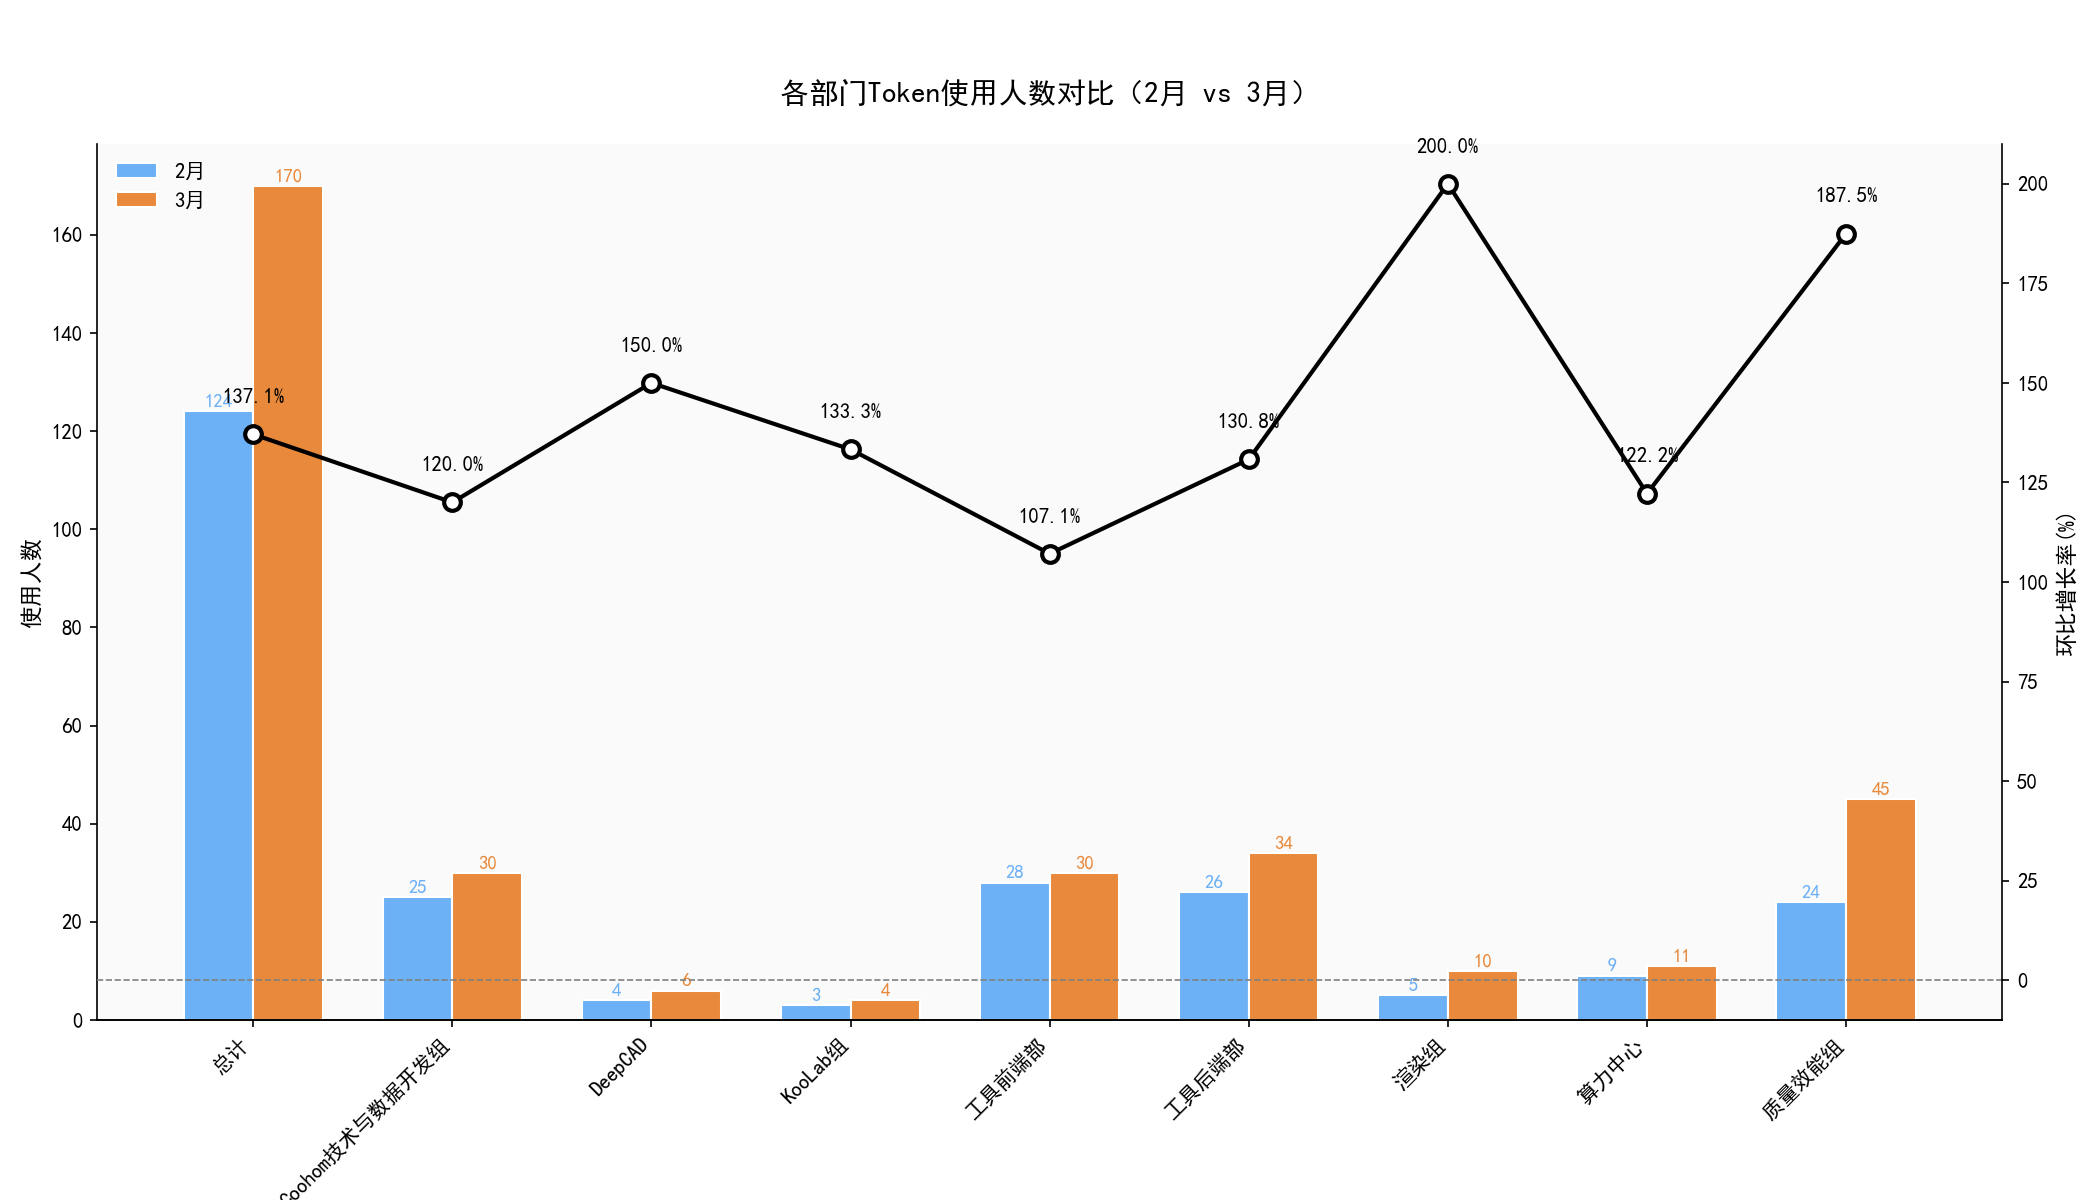
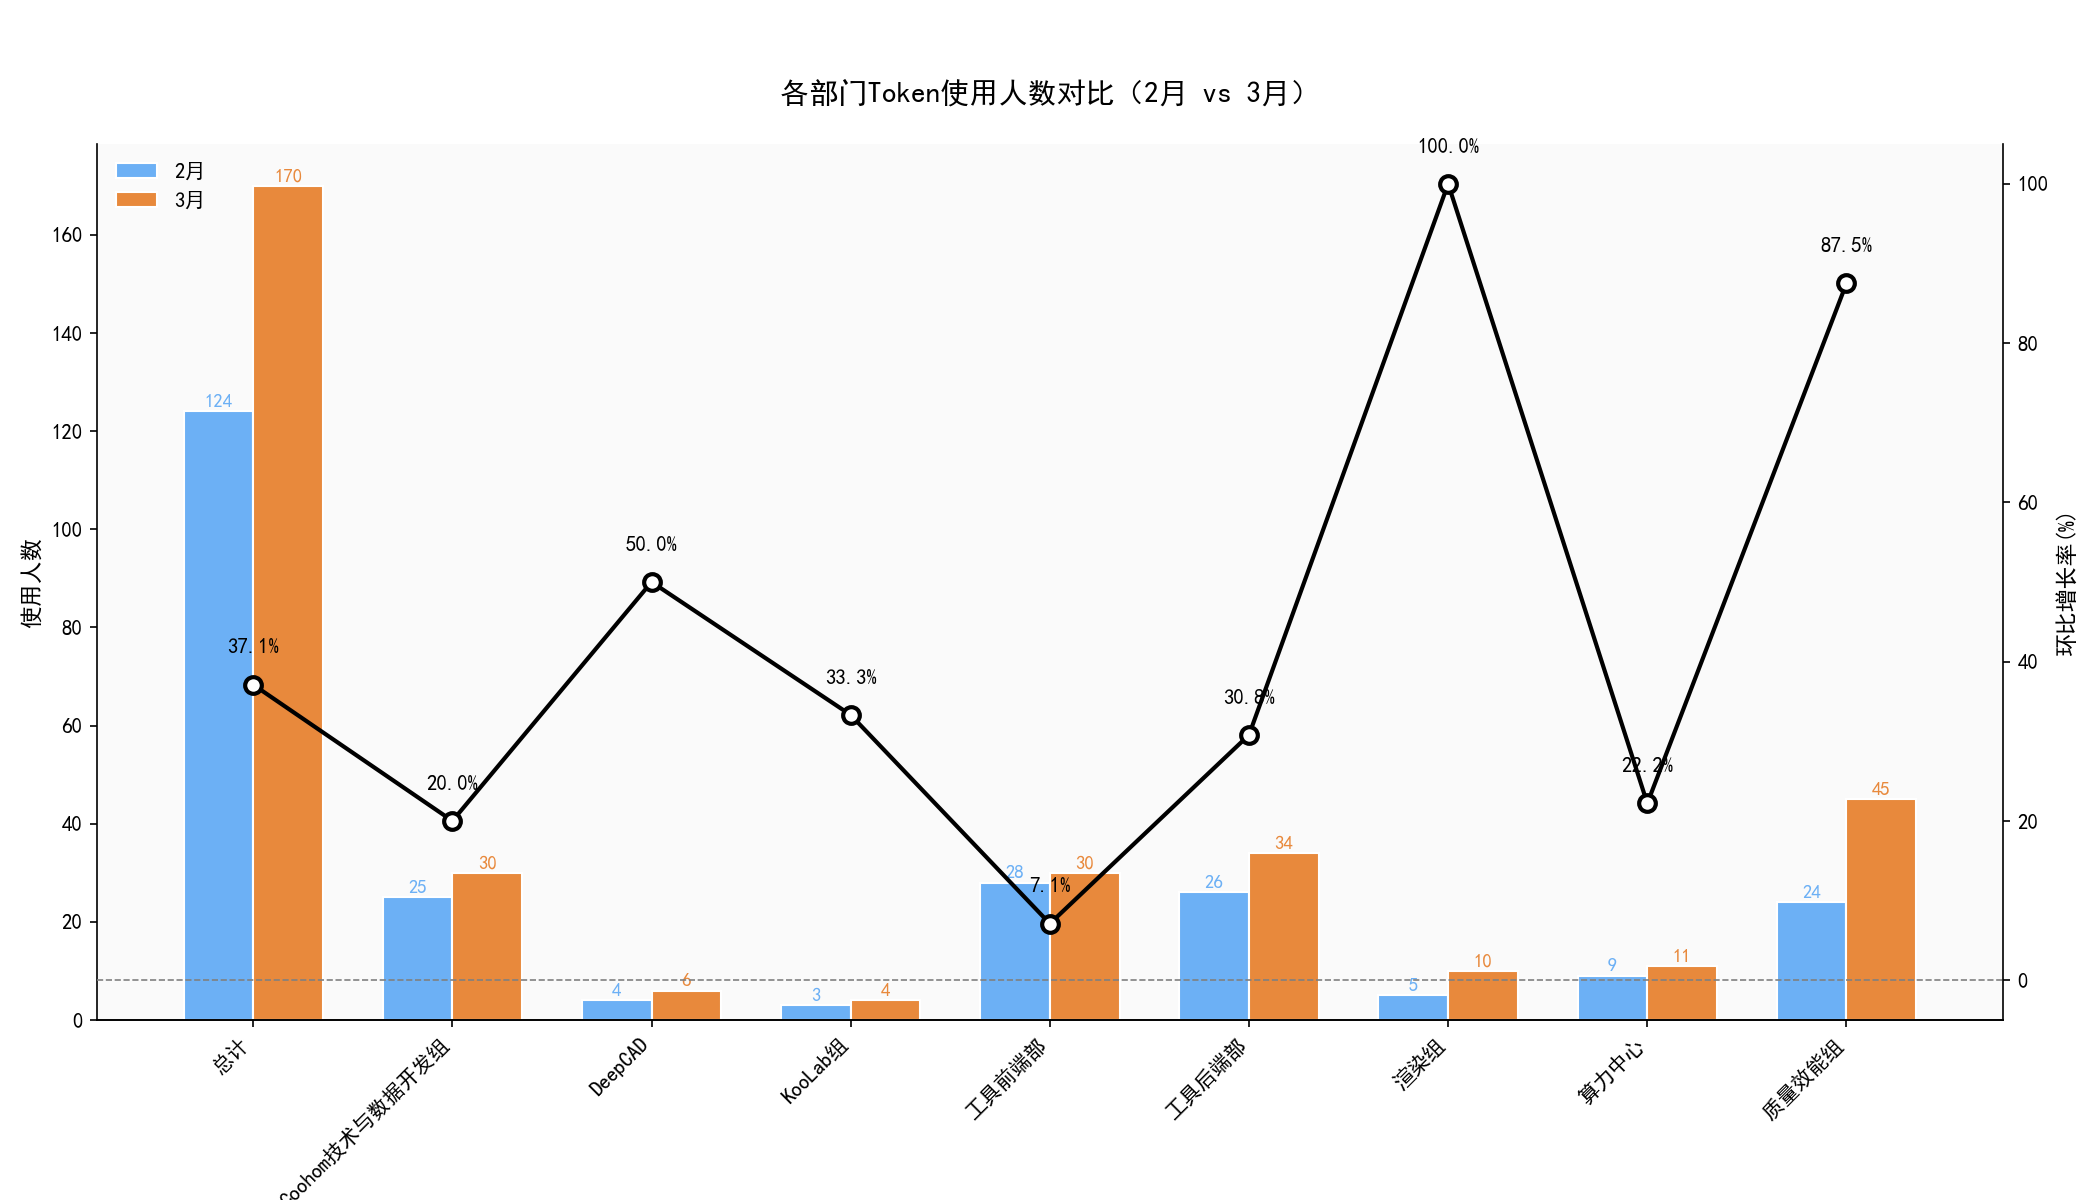
``` fix(compare_monthly): 修复环比增长率计算公式
- 修正token消耗环比增长率计算逻辑，从除法改为减法计算方式
- 修正token花费环比增长率计算逻辑，确保正确反映增长/下降幅度
- 修正用户使用人数环比增长率计算公式
- 修正AI-IDE订阅人数环比增长率计算公式
- 更新满意度变化率计算方法，使用正确的差值百分比算法
- 所有计算均保持对零值的安全处理，避免除零错误
```

diff --git a/compare_monthly.py b/compare_monthly.py
@@ -76,7 +76,7 @@ token_compare = pd.merge(feb_token, mar_token, on='部门', how='outer').fillna(
 token_compare = pd.merge(dept_person_count, token_compare, on='部门', how='left').fillna(0)
 token_compare['2月Token消耗'] = token_compare['2月Token消耗'].astype(int)
 token_compare['3月Token消耗'] = token_compare['3月Token消耗'].astype(int)
-token_compare['环比增长率(%)'] = ((token_compare['3月Token消耗'] / token_compare['2月Token消耗'].replace(0, 1)) * 100).round(1)
+token_compare['环比增长率(%)'] = (((token_compare['3月Token消耗'] - token_compare['2月Token消耗']) / token_compare['2月Token消耗'].replace(0, 1)) * 100).round(1)
 
 feb_total = int(df_type1_feb['token消耗'].sum())
 mar_total = int(df_type1_mar['token消耗'].sum())
@@ -85,7 +85,7 @@ total_row = pd.DataFrame([{
     '部门人数': total_person_count,
     '2月Token消耗': feb_total,
     '3月Token消耗': mar_total,
-    '环比增长率(%)': round((mar_total / feb_total * 100), 1) if feb_total > 0 else 0
+    '环比增长率(%)': round(((mar_total - feb_total) / feb_total * 100), 1) if feb_total > 0 else 0
 }])
 token_compare = pd.concat([total_row, token_compare], ignore_index=True)
 
@@ -130,7 +130,7 @@ cost_compare = pd.merge(feb_cost, mar_cost, on='部门', how='outer').fillna(0)
 cost_compare = pd.merge(dept_person_count, cost_compare, on='部门', how='left').fillna(0)
 cost_compare['2月Token花费($)'] = cost_compare['2月Token花费($)'].round(2)
 cost_compare['3月Token花费($)'] = cost_compare['3月Token花费($)'].round(2)
-cost_compare['环比增长率(%)'] = ((cost_compare['3月Token花费($)'] / cost_compare['2月Token花费($)'].replace(0, 1)) * 100).round(1)
+cost_compare['环比增长率(%)'] = (((cost_compare['3月Token花费($)'] - cost_compare['2月Token花费($)']) / cost_compare['2月Token花费($)'].replace(0, 1)) * 100).round(1)
 
 feb_cost_total = round(df_type1_feb['花费'].sum(), 2)
 mar_cost_total = round(df_type1_mar['花费'].sum(), 2)
@@ -139,7 +139,7 @@ total_row = pd.DataFrame([{
     '部门人数': total_person_count,
     '2月Token花费($)': feb_cost_total,
     '3月Token花费($)': mar_cost_total,
-    '环比增长率(%)': round((mar_cost_total / feb_cost_total * 100), 1) if feb_cost_total > 0 else 0
+    '环比增长率(%)': round(((mar_cost_total - feb_cost_total) / feb_cost_total * 100), 1) if feb_cost_total > 0 else 0
 }])
 cost_compare = pd.concat([total_row, cost_compare], ignore_index=True)
 
@@ -183,7 +183,7 @@ users_compare = pd.merge(feb_users, mar_users, on='部门', how='outer').fillna(
 users_compare = pd.merge(dept_person_count, users_compare, on='部门', how='left').fillna(0)
 users_compare['2月Token使用人数'] = users_compare['2月Token使用人数'].astype(int)
 users_compare['3月Token使用人数'] = users_compare['3月Token使用人数'].astype(int)
-users_compare['环比增长率(%)'] = ((users_compare['3月Token使用人数'] / users_compare['2月Token使用人数'].replace(0, 1)) * 100).round(1)
+users_compare['环比增长率(%)'] = (((users_compare['3月Token使用人数'] - users_compare['2月Token使用人数']) / users_compare['2月Token使用人数'].replace(0, 1)) * 100).round(1)
 
 feb_users_total = int(df_type1_feb[df_type1_feb['token消耗'] > 0]['花名'].nunique())
 mar_users_total = int(df_type1_mar[df_type1_mar['token消耗'] > 0]['花名'].nunique())
@@ -192,7 +192,7 @@ total_row = pd.DataFrame([{
     '部门人数': total_person_count,
     '2月Token使用人数': feb_users_total,
     '3月Token使用人数': mar_users_total,
-    '环比增长率(%)': round((mar_users_total / feb_users_total * 100), 1) if feb_users_total > 0 else 0
+    '环比增长率(%)': round(((mar_users_total - feb_users_total) / feb_users_total * 100), 1) if feb_users_total > 0 else 0
 }])
 users_compare = pd.concat([total_row, users_compare], ignore_index=True)
 
@@ -236,7 +236,7 @@ ai_users_compare = pd.merge(feb_ai_users, mar_ai_users, on='部门', how='outer'
 ai_users_compare = pd.merge(dept_person_count, ai_users_compare, on='部门', how='left').fillna(0)
 ai_users_compare['2月AI-IDE订阅人数'] = ai_users_compare['2月AI-IDE订阅人数'].astype(int)
 ai_users_compare['3月AI-IDE订阅人数'] = ai_users_compare['3月AI-IDE订阅人数'].astype(int)
-ai_users_compare['环比增长率(%)'] = ((ai_users_compare['3月AI-IDE订阅人数'] / ai_users_compare['2月AI-IDE订阅人数'].replace(0, 1)) * 100).round(1)
+ai_users_compare['环比增长率(%)'] = (((ai_users_compare['3月AI-IDE订阅人数'] - ai_users_compare['2月AI-IDE订阅人数']) / ai_users_compare['2月AI-IDE订阅人数'].replace(0, 1)) * 100).round(1)
 
 feb_ai_total = int(df_type2_feb['花名'].nunique())
 mar_ai_total = int(df_type2_mar['花名'].nunique())
@@ -245,7 +245,7 @@ total_row = pd.DataFrame([{
     '部门人数': total_person_count,
     '2月AI-IDE订阅人数': feb_ai_total,
     '3月AI-IDE订阅人数': mar_ai_total,
-    '环比增长率(%)': round((mar_ai_total / feb_ai_total * 100), 1) if feb_ai_total > 0 else 0
+    '环比增长率(%)': round(((mar_ai_total - feb_ai_total) / feb_ai_total * 100), 1) if feb_ai_total > 0 else 0
 }])
 ai_users_compare = pd.concat([total_row, ai_users_compare], ignore_index=True)
 
@@ -311,7 +311,7 @@ satisfaction_compare['2月满意度'] = satisfaction_compare['2月满意度'].ro
 satisfaction_compare['3月满意度'] = satisfaction_compare['3月满意度'].round(1)
 # 只有2月和3月都有数据的部门才计算变化率
 satisfaction_compare['满意度变化率(%)'] = satisfaction_compare.apply(
-    lambda row: round(((row['3月满意度'] / row['2月满意度']) * 100 - 100), 1) if row['2月满意度'] > 0 and row['3月满意度'] > 0 else 0, axis=1
+    lambda row: round(((row['3月满意度'] - row['2月满意度']) / row['2月满意度'] * 100), 1) if row['2月满意度'] > 0 and row['3月满意度'] > 0 else 0, axis=1
 )
 
 # 添加总计行
@@ -320,7 +320,7 @@ mar_total_sat = df_satisfaction_mar['satisfaction_score'].mean() if len(df_satis
 
 # 计算变化率
 if pd.notna(feb_total_sat) and pd.notna(mar_total_sat) and feb_total_sat > 0 and mar_total_sat > 0:
-    change_rate = round(((mar_total_sat / feb_total_sat) * 100 - 100), 1)
+    change_rate = round(((mar_total_sat - feb_total_sat) / feb_total_sat * 100), 1)
 else:
     change_rate = 0.0
 
